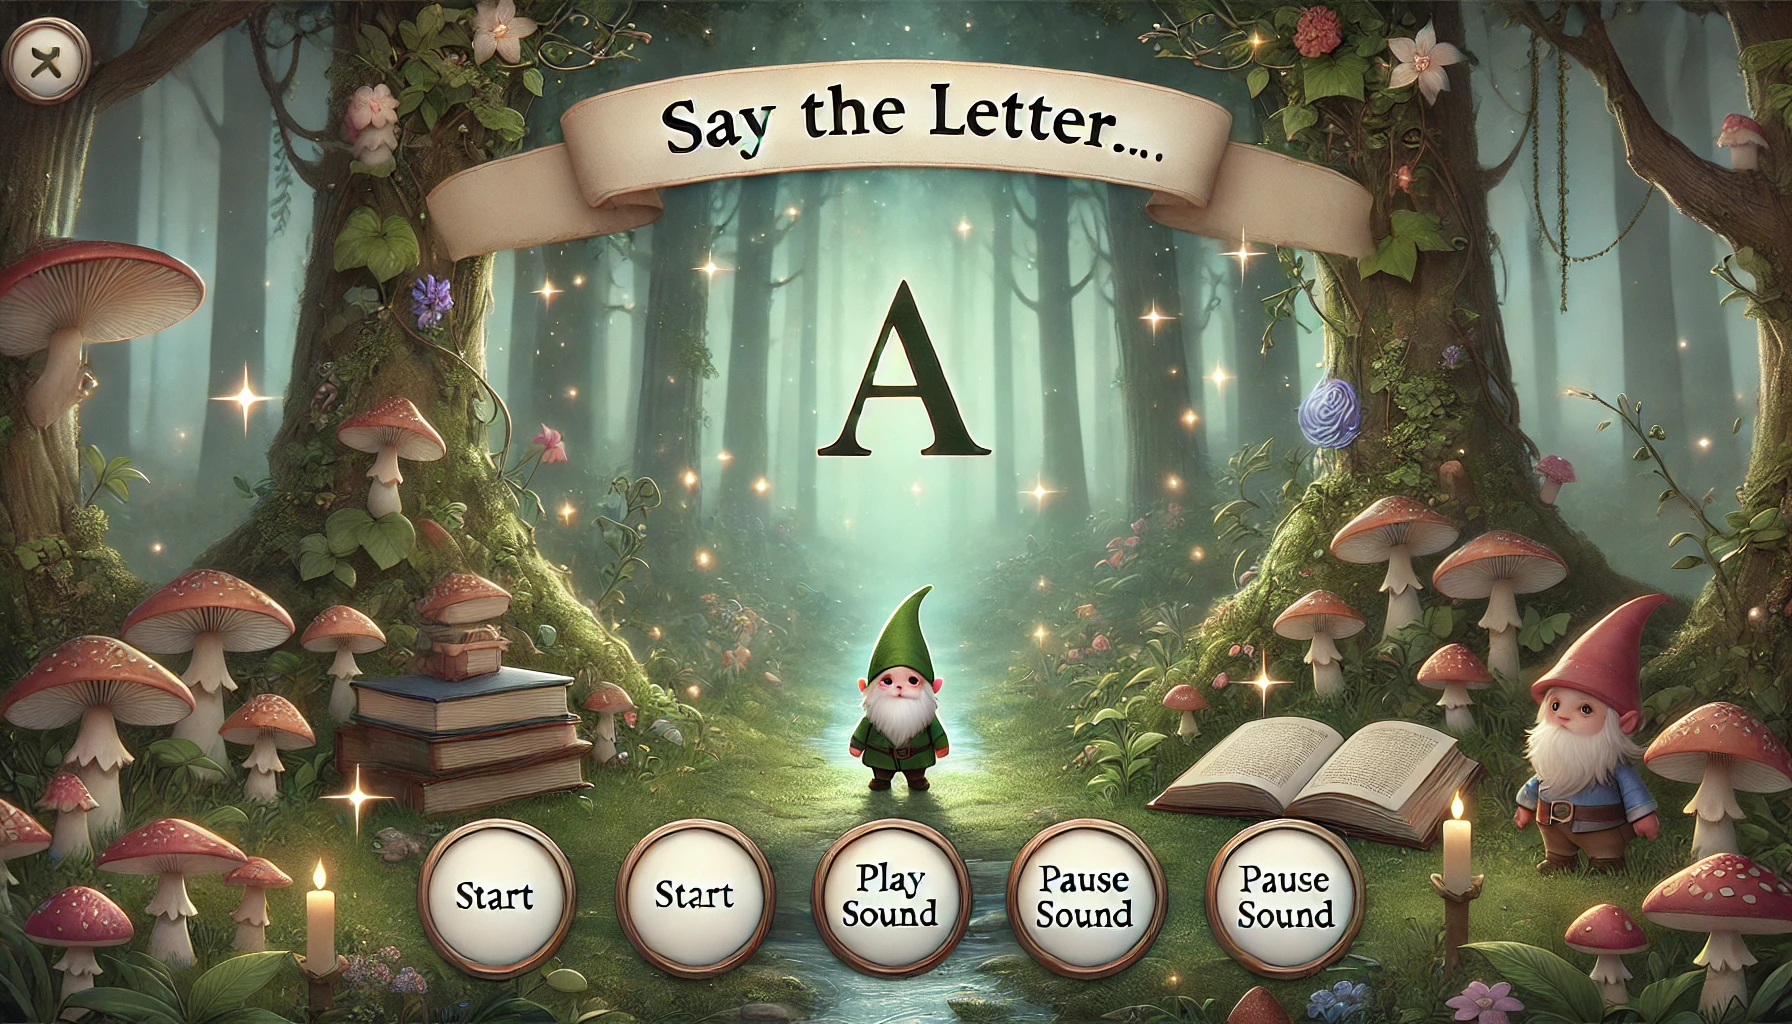
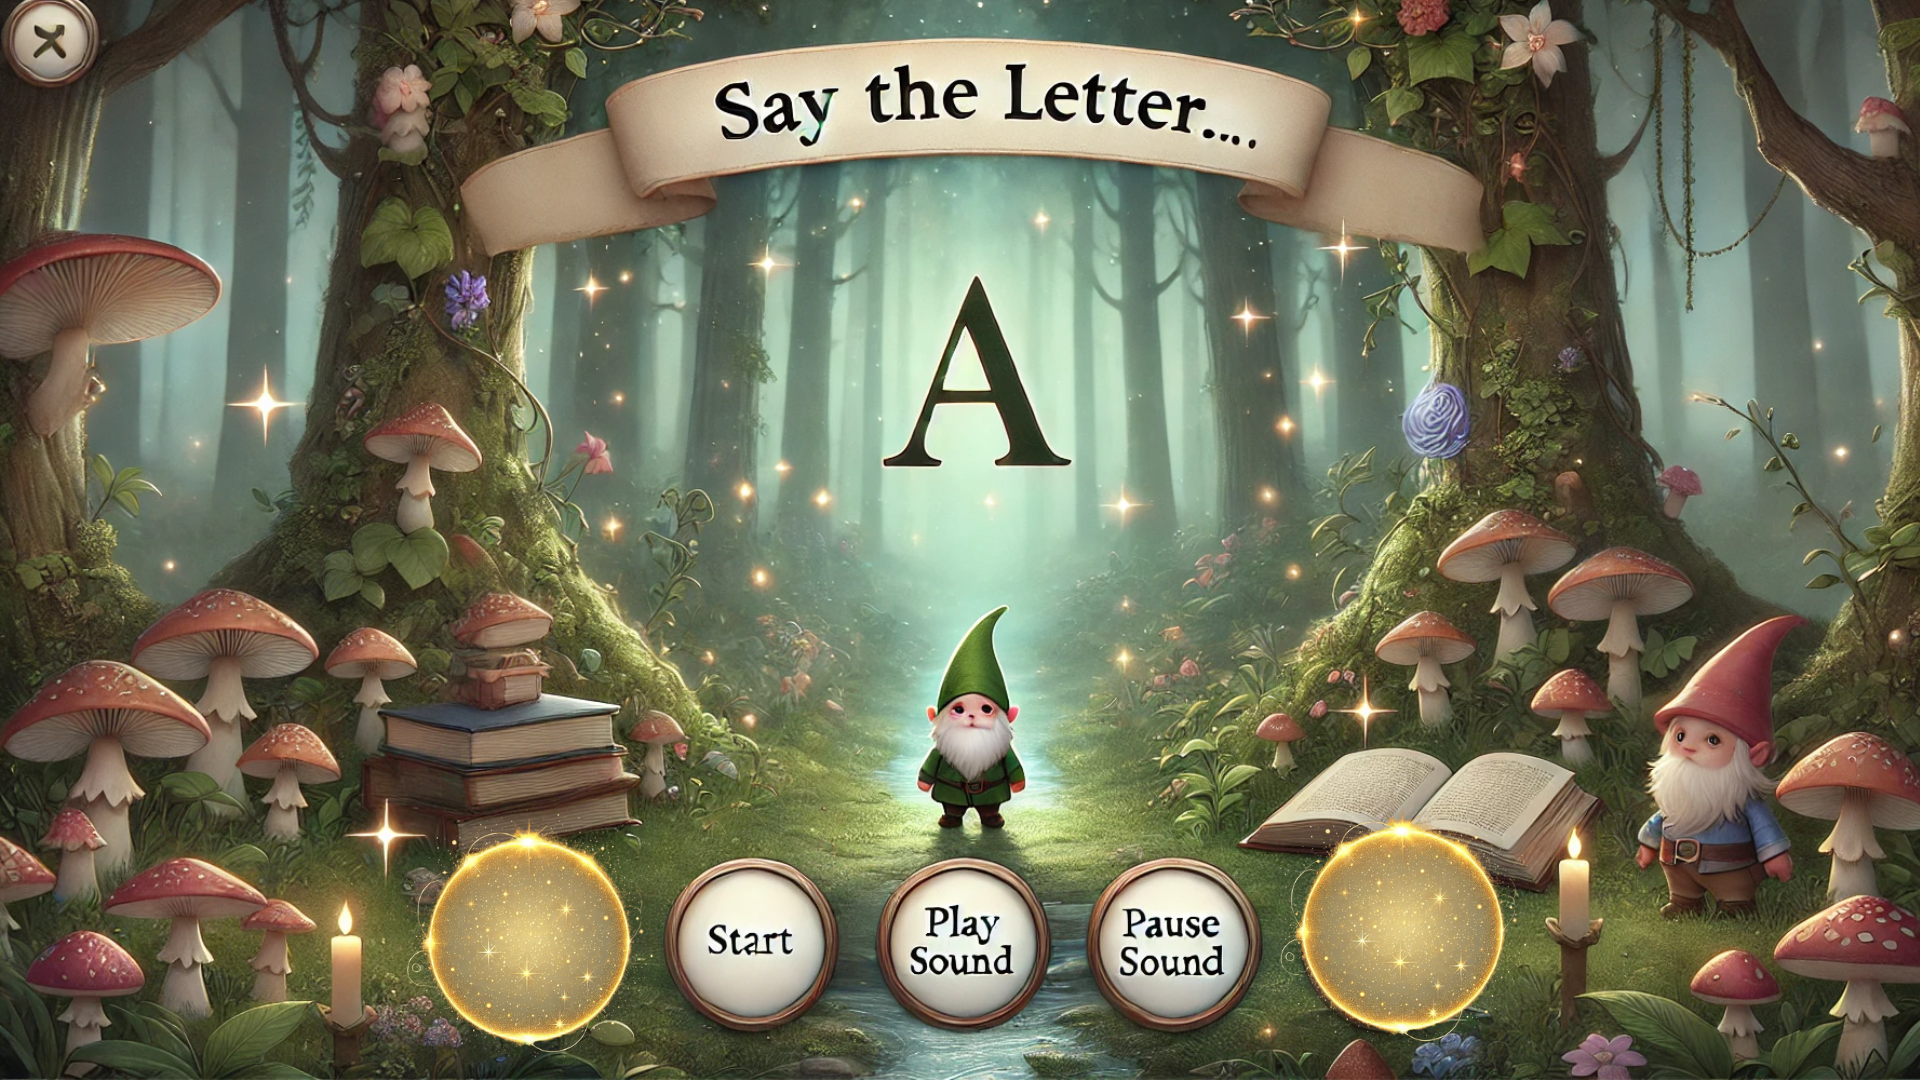
push

diff --git a/my-app/pages/Lev1Game1.css b/my-app/pages/Lev1Game1.css
@@ -37,22 +37,11 @@
 }
 
 .gold-circle1 {
-    position: absolute; /* Absolutely position the gold circle */
-    width: 300px;
-    height: 300px;
-    top: 70%; /* Center vertically */
-    left: 15%; /* Center horizontally */
-    z-index: 1; /* Ensure it stays behind the letter */
-    opacity: 0.94
+    display:none;
 }
 
 .gold-circle2 {
-    position: absolute; /* Absolutely position the gold circle */
-    width: 300px;
-    height: 300px;
-    top: 70%; /* Center vertically */
-    left: 64%; /* Center horizontally */
-    z-index: 1; /* Ensure it stays behind the letter */
+    display:none;
 }
 
 body {
